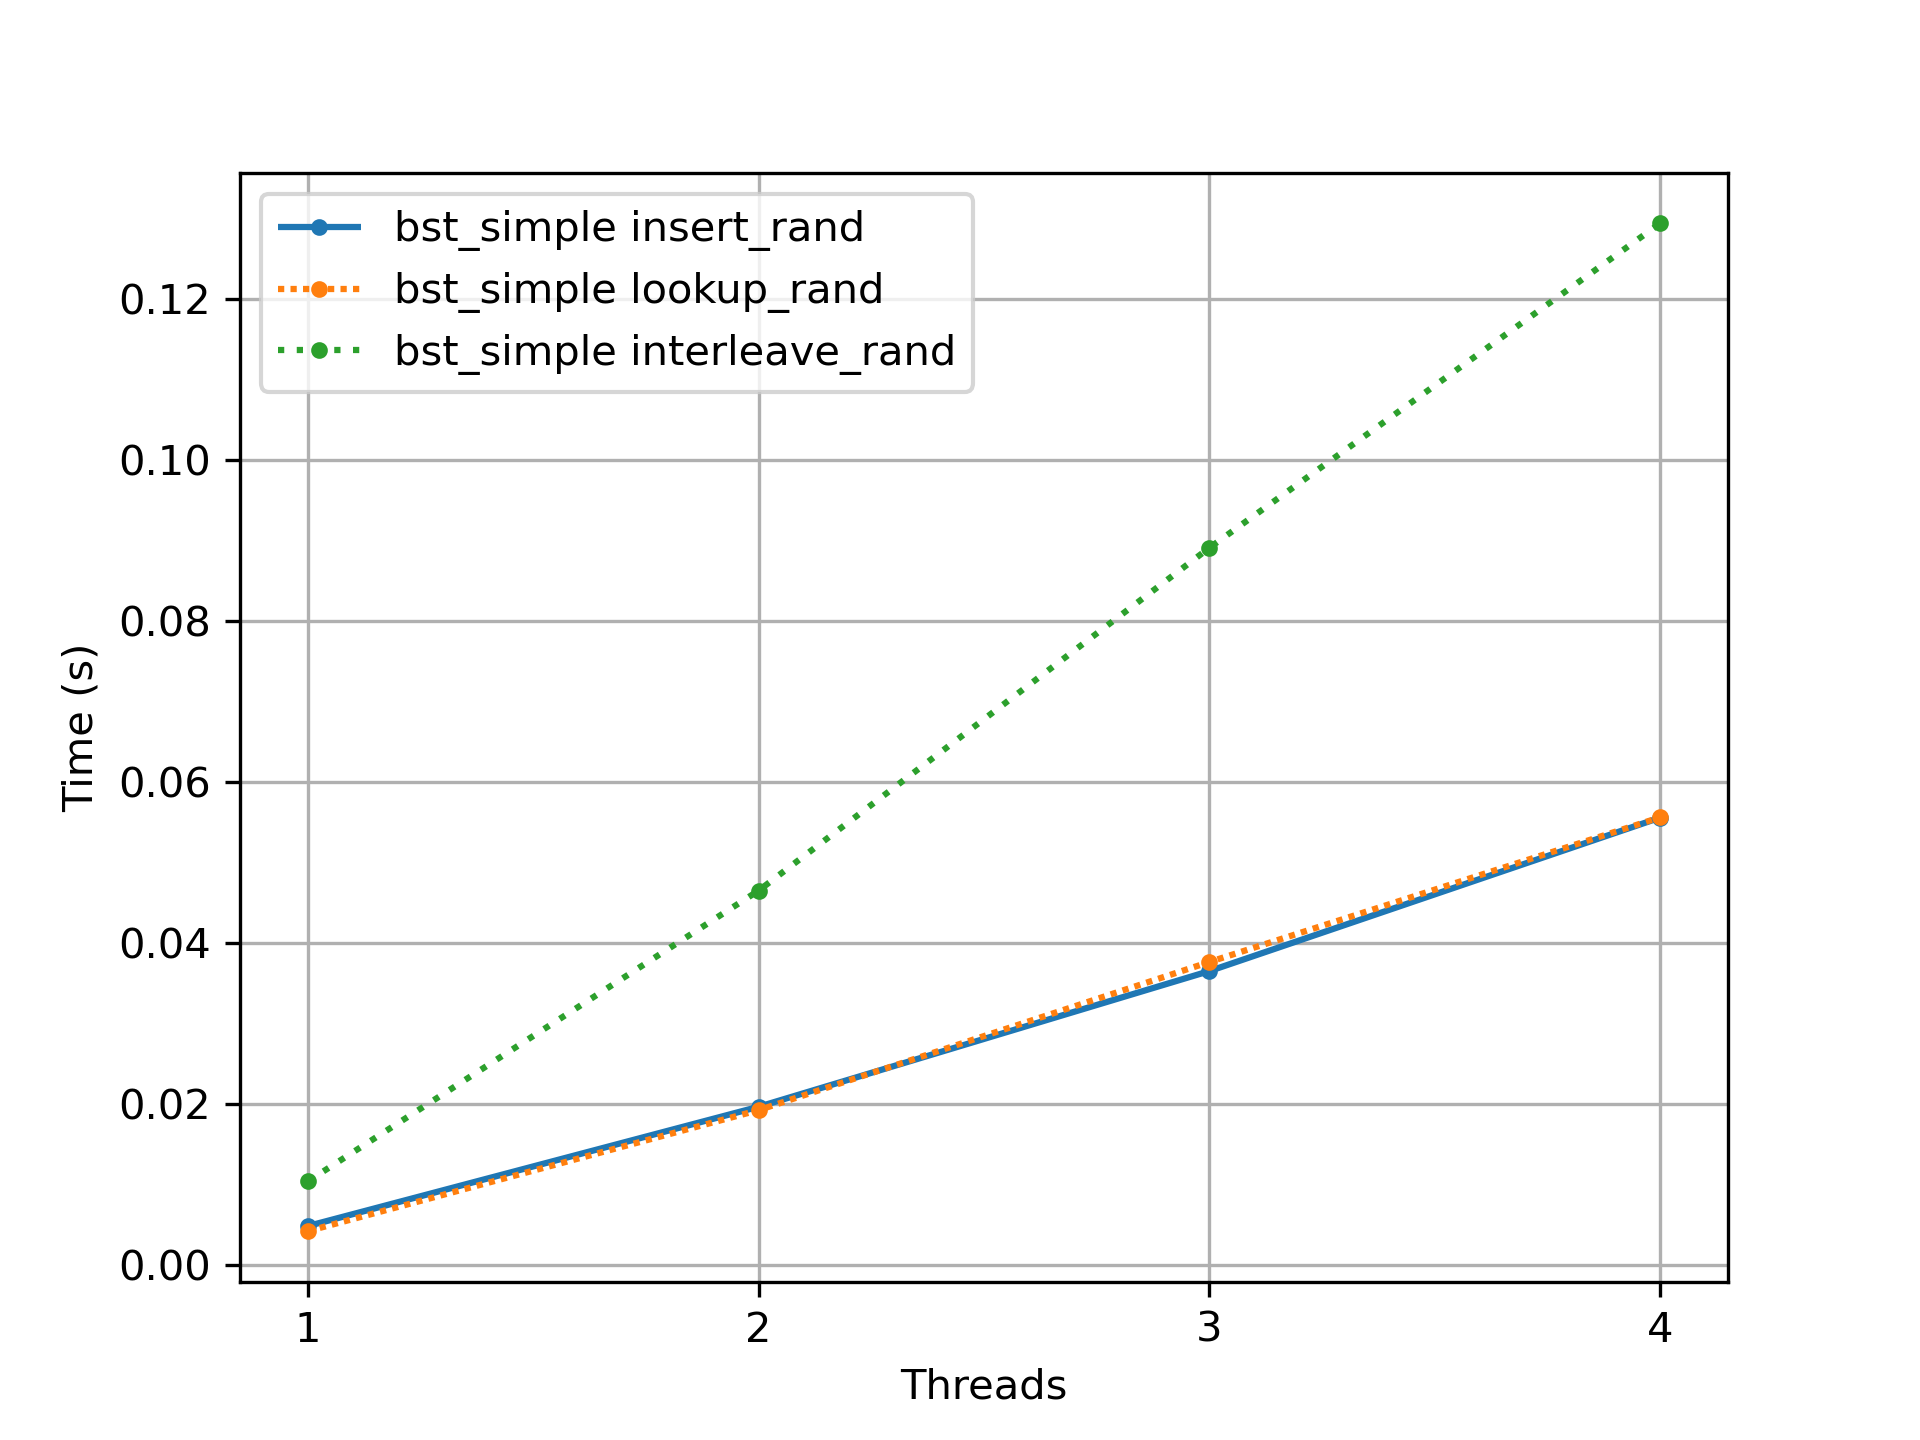
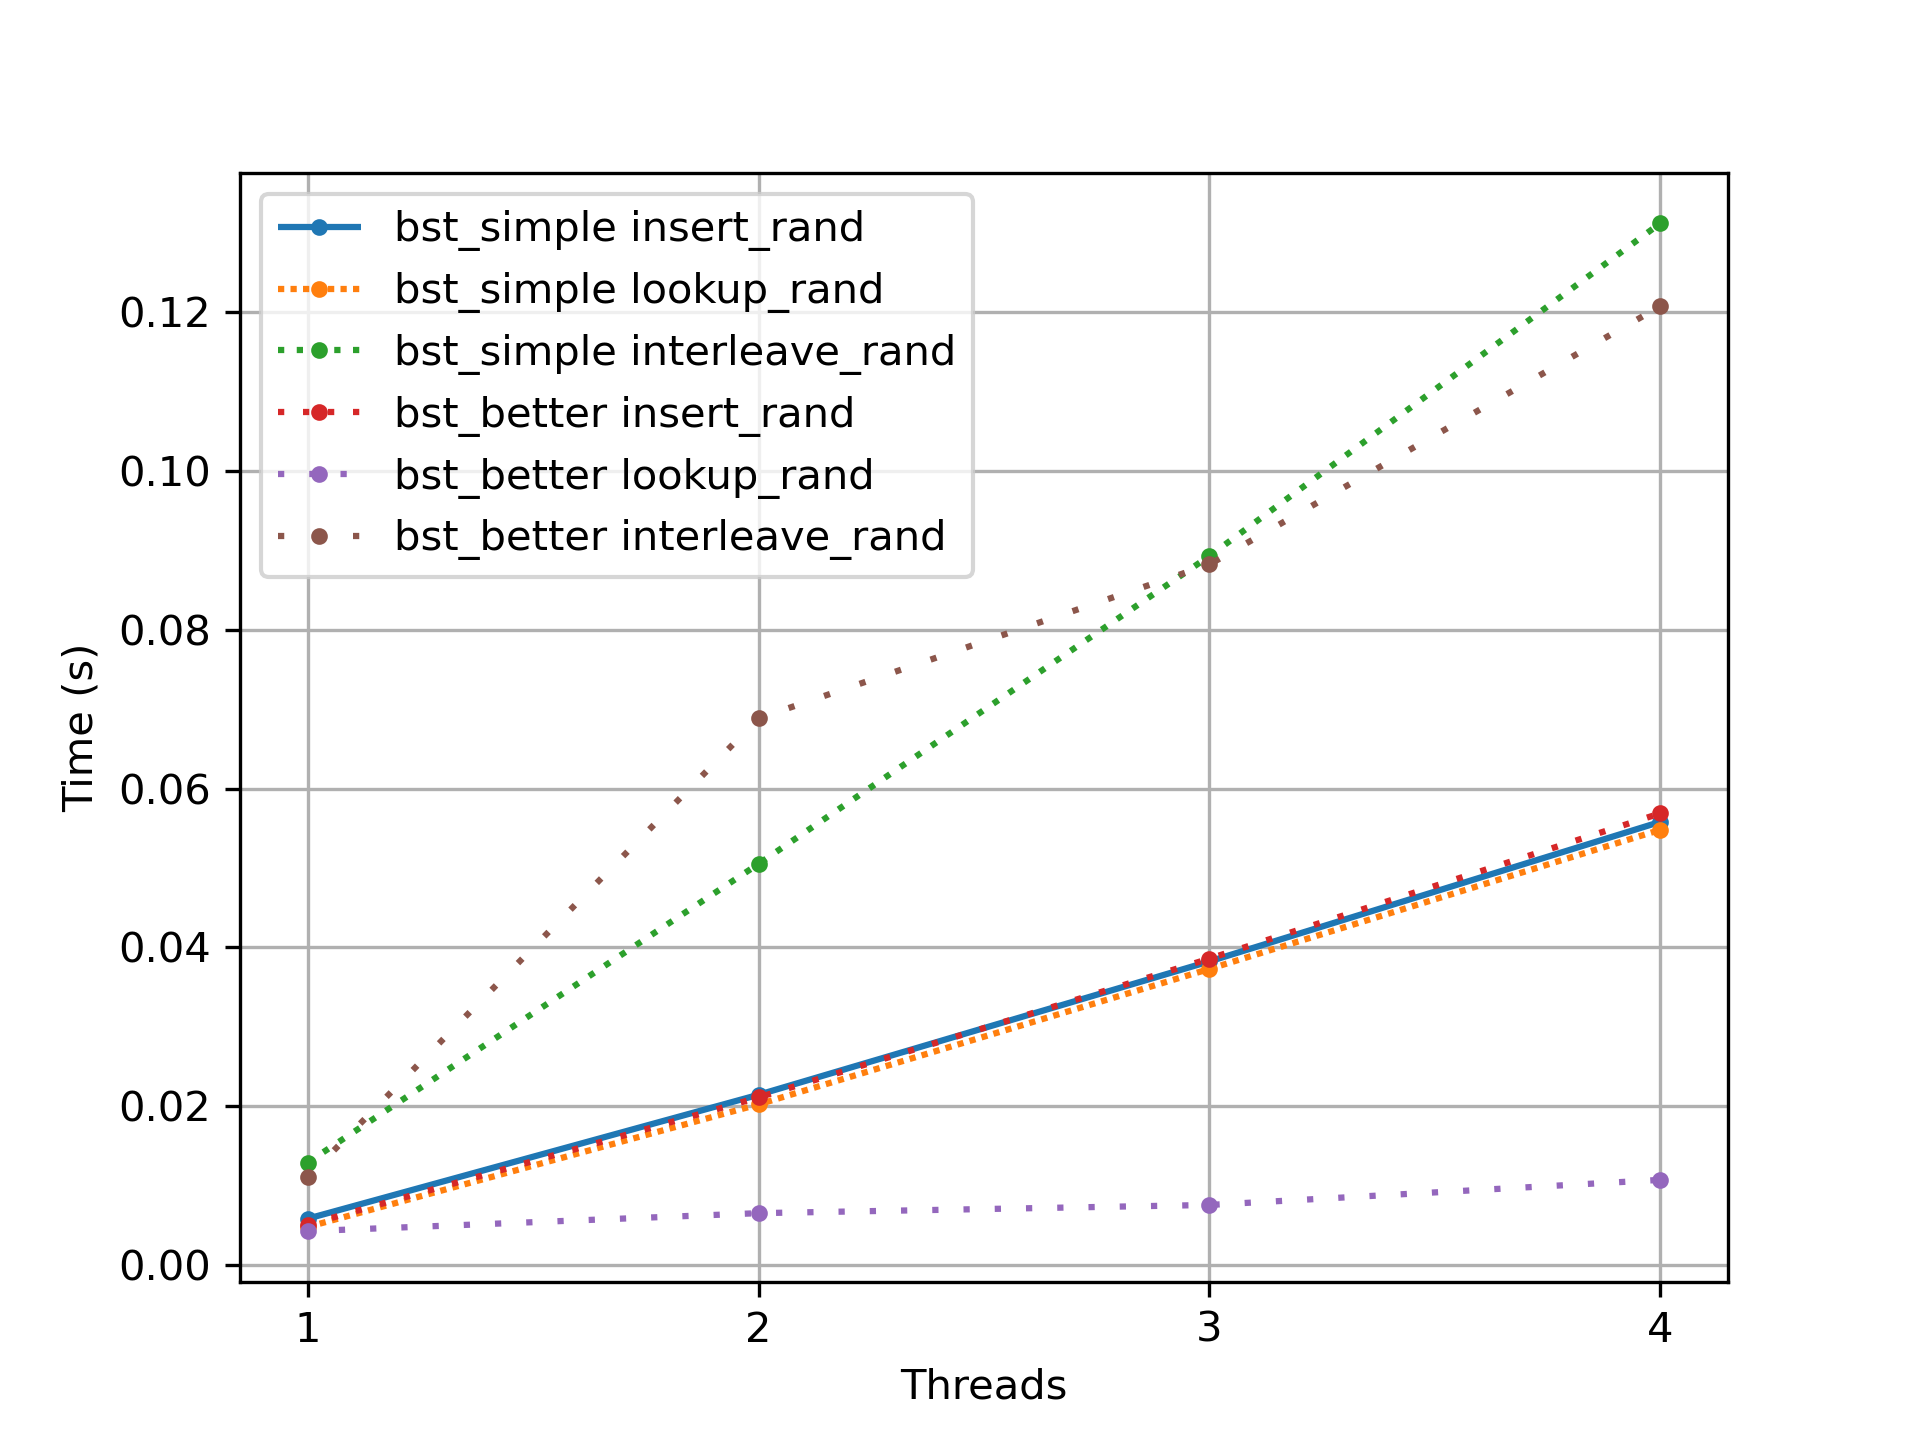
hw29: bst_better

diff --git a/hw29-threads-locks-usage/src/bst_better.cpp b/hw29-threads-locks-usage/src/bst_better.cpp
@@ -1,5 +1,5 @@
 #include <iostream>
-#include <mutex>
+#include <shared_mutex>
 #include <vector>
 #include <random>
 #include "shared.hpp"
@@ -18,10 +18,10 @@ struct Node {
 
 class BinarySearchTree {
 public:
-    BinarySearchTree(): root_(NULL), mutex_(), size_(0), height_(0) {}
+    BinarySearchTree(): root_(NULL), rw_mutex_(), size_(0), height_(0) {}
 
     ~BinarySearchTree() {
-        mutex_.lock();
+        rw_mutex_.lock();
         if (root_ == NULL) { return; }
         std::vector<Node*> to_process = { root_ };
         while (!to_process.empty()) {
@@ -31,22 +31,22 @@ public:
             if (e->right != NULL) { to_process.push_back(e->right); }
             delete e;
         }
-        mutex_.unlock();
+        rw_mutex_.unlock();
     }
 
     Node* search(int key) {
-        mutex_.lock();
+        rw_mutex_.lock_shared();
         auto *result = root_;
         while (result != NULL && key != result->key) {
             if (key < result->key) { result = result->left; }
             else { result = result->right; }
         }
-        mutex_.unlock();
+        rw_mutex_.unlock_shared();
         return result;
     }
 
     void insert(int key) {
-        mutex_.lock();
+        rw_mutex_.lock();
         Node *parent = NULL;
         auto *current = root_;
         while (current != NULL) {
@@ -65,26 +65,26 @@ public:
         }
         size_++;
         height_ = std::max(height_, node->height);
-        mutex_.unlock();
+        rw_mutex_.unlock();
     }
 
     int size() {
-        mutex_.lock();
+        rw_mutex_.lock_shared();
         int result = size_;
-        mutex_.unlock();
+        rw_mutex_.unlock_shared();
         return result;
     }
 
     int height() {
-        mutex_.lock();
+        rw_mutex_.lock_shared();
         int result = height_;
-        mutex_.unlock();
+        rw_mutex_.unlock_shared();
         return result;
     }
 
 private:
     Node *root_;
-    std::mutex mutex_;
+    std::shared_mutex rw_mutex_;
     int size_;
     int height_;
 };
